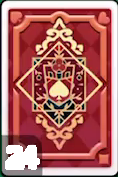
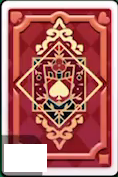
fix: clean card back previews

Changed region(s): [[0.0254, 0.791, 0.4068, 0.9887]]

diff --git a/src/app.js b/src/app.js
@@ -402,7 +402,12 @@ function showThemeGallery(tab = 'background') {
   const activeTab = ['background', 'back', 'face'].includes(tab) ? tab : 'background';
   const { theme, cardBack = 'ruby', cardFaceStyle = 'master' } = game.state;
   const backgroundTiles = TABLE_THEMES.map(([value, label, preview]) => `<button class="gallery-tile background-tile${theme === value ? ' chosen' : ''}" type="button" data-setting="theme" data-value="${value}" aria-label="${label} background" aria-pressed="${theme === value}"><span style="background:${preview}"></span>${theme === value ? '<i aria-hidden="true">✓</i>' : ''}</button>`).join('');
-  const backTiles = THEME_BACKS.map(([value, label]) => `<button class="gallery-tile back-tile${cardBack === value ? ' chosen' : ''}" type="button" data-setting="cardBack" data-value="${value}" aria-label="${label}" aria-pressed="${cardBack === value}"><img src="/assets/cards/${CARD_BACK_FILES[value]}" alt="">${cardBack === value ? '<i aria-hidden="true">✓</i>' : ''}</button>`).join('');
+  const backTiles = THEME_BACKS.map(([value, label]) => {
+    const artwork = value === 'ruby'
+      ? '<span class="back-preview-source" aria-hidden="true"><img src="/assets/cards/back-solitaire-master.svg" alt=""><img src="/assets/cards/back-solitaire-master-reference.png" alt=""></span>'
+      : `<img src="/assets/cards/${CARD_BACK_FILES[value]}" alt="">`;
+    return `<button class="gallery-tile back-tile${cardBack === value ? ' chosen' : ''}" type="button" data-setting="cardBack" data-value="${value}" aria-label="${label}" aria-pressed="${cardBack === value}">${artwork}${cardBack === value ? '<i aria-hidden="true">✓</i>' : ''}</button>`;
+  }).join('');
   const faceTiles = [['master', 'Solitaire Master', '5-of-hearts-reference.png'], ['classic', 'Classic', '5-of-hearts.svg']].map(([value, label, preview]) => `<button class="gallery-tile face-tile${cardFaceStyle === value ? ' chosen' : ''}" type="button" data-setting="cardFaceStyle" data-value="${value}" aria-label="${label} card faces" aria-pressed="${cardFaceStyle === value}"><img src="/assets/cards/${preview}" alt=""><span>${label}</span>${cardFaceStyle === value ? '<i aria-hidden="true">✓</i>' : ''}</button>`).join('');
   const tiles = activeTab === 'background' ? backgroundTiles : activeTab === 'back' ? backTiles : faceTiles;
   setModal('Themes', '', `<nav class="gallery-tabs" aria-label="Theme categories"><button type="button" data-theme-tab="background" aria-label="Backgrounds" class="${activeTab === 'background' ? 'active' : ''}"><span aria-hidden="true">▧</span></button><button type="button" data-theme-tab="back" aria-label="Card backs" class="${activeTab === 'back' ? 'active' : ''}"><span class="tab-card-back" aria-hidden="true">◆</span></button><button type="button" data-theme-tab="face" aria-label="Card faces" class="${activeTab === 'face' ? 'active' : ''}"><span aria-hidden="true">♥</span></button></nav><div class="gallery-grid ${activeTab === 'background' ? 'background-grid' : activeTab === 'face' ? 'face-grid' : 'back-grid'}">${tiles}</div>`);

diff --git a/tests/solitaire.spec.js b/tests/solitaire.spec.js
@@ -462,6 +462,7 @@ test('theme gallery switches backgrounds, card backs, and face styles on mobile'
   await page.getByRole('button', { name: 'Card backs' }).click();
   await expect(page.locator('.back-tile')).toHaveCount(8);
   await expect.poll(() => page.locator('.back-tile img').evaluateAll((images) => images.every((image) => image.complete && image.naturalWidth > 0))).toBe(true);
+  await expect(page.locator('.back-tile[data-value="ruby"] .back-preview-source img')).toHaveCount(2);
   await page.screenshot({ path: 'test-results/theme-gallery-mobile.png' });
   await page.getByRole('button', { name: 'Teal diamonds' }).click();
   await expect(page.locator('body')).toHaveAttribute('data-card-back', 'teal');
@@ -768,7 +769,7 @@ test('the board fits a 320px phone and the installed shell loads offline', async
   await page.goto('/');
   await page.evaluate(() => navigator.serviceWorker.ready);
   const cacheNames = await page.evaluate(() => caches.keys());
-  expect(cacheNames).toContain('solitaire-master-v31');
+  expect(cacheNames).toContain('solitaire-master-v32');
   expect(cacheNames).not.toContain('solitaire-master-v19');
   await page.evaluate(() => window.solitaireGame.setOption('theme', 'mountain'));
   await page.reload();

diff --git a/src/styles.css b/src/styles.css
@@ -410,7 +410,9 @@ body:not([data-theme='felt']) .foundation-theme-mark { position: absolute; inset
 .gallery-tile { position: relative; min-width: 0; padding: 0; overflow: hidden; border: 2px solid #c9c7cd; border-radius: 9px; background: #faf9fc; box-shadow: 0 2px 3px rgba(28,27,33,.2); cursor: pointer; }
 .gallery-tile.chosen { border: 4px solid #14d526; box-shadow: 0 0 0 1px rgba(20,213,38,.3), 0 2px 4px rgba(28,27,33,.25); }
 .back-tile { aspect-ratio: 2 / 3; }
-.back-tile img { display: block; width: 100%; height: 100%; object-fit: fill; }
+.back-tile > img, .back-preview-source img { display: block; width: 100%; height: 100%; object-fit: fill; }
+.back-preview-source { position: absolute; inset: 0; display: block; }
+.back-preview-source img { position: absolute; inset: 0; }
 .background-tile { aspect-ratio: 1; }
 .background-tile > span { display: block; width: 100%; height: 100%; }
 .gallery-tile > i { position: absolute; right: -1px; bottom: -1px; display: grid; width: 34px; height: 34px; place-items: center; border-radius: 50%; color: #fff; background: #10d323; font-size: 20px; font-style: normal; font-weight: 800; box-shadow: 0 1px 4px rgba(0,0,0,.22); }

diff --git a/sw.js b/sw.js
@@ -1,4 +1,4 @@
-const CACHE = 'solitaire-master-v31';
+const CACHE = 'solitaire-master-v32';
 const cardRanks = ['ace', '2', '3', '4', '5', '6', '7', '8', '9', '10', 'jack', 'queen', 'king'];
 const cardSuits = ['spades', 'hearts', 'diamonds', 'clubs'];
 const cardFaces = cardRanks.flatMap((rank) => cardSuits.map((suit) => `/assets/cards/${rank}-of-${suit}.svg`));

diff --git a/tools/extract_source_card_back.py b/tools/extract_source_card_back.py
@@ -3,7 +3,7 @@
 
 from pathlib import Path
 
-from PIL import Image, ImageChops, ImageFilter
+from PIL import Image, ImageChops, ImageDraw
 
 
 ROOT = Path(__file__).resolve().parents[1]
@@ -21,17 +21,11 @@ def main() -> None:
     source_crop.save(SOURCE_OUTPUT)
     crop = source_crop.convert("RGBA")
 
-    # The source stock counter is overlaid on the back at the lower-left. Clear
-    # just its bright glyphs so the live counter can be rendered above the crop.
+    # The source stock counter and its translucent badge are overlaid on the
+    # back at the lower-left. Clear that small area so the vector underlay can
+    # restore the pattern on tableau cards and in gallery previews.
     mask = Image.new("L", crop.size, 0)
-    source_pixels = crop.convert("RGB").load()
-    mask_pixels = mask.load()
-    for y in range(145, 171):
-        for x in range(4, 42):
-            red, green, blue = source_pixels[x, y]
-            if min(red, green, blue) > 180:
-                mask_pixels[x, y] = 255
-    mask = mask.filter(ImageFilter.MaxFilter(5))
+    ImageDraw.Draw(mask).rectangle((4, 144, 46, 171), fill=255)
     crop.putalpha(ImageChops.subtract(crop.getchannel("A"), mask))
     crop.save(OUTPUT)
 

diff --git a/docs/reference-study.md b/docs/reference-study.md
@@ -19,7 +19,7 @@ Keep an evidence ledger with the video URL, capture date, app version, duration,
 
 The official short now has a local source hash and a bit-verifiable frame ledger. The full-length portrait recording is also preserved locally but ignored by Git; only the selected 0–24 second opening window is under study at a time to avoid expanding the entire 17-minute source into hundreds of gigabytes of raw frames. The synchronized replica notes in the user's memory folder emphasize preserving exact source PTS, independent frame extraction, and a compact review of transition windows.
 
-The mobile visual pass compares the 10-second reference frame with a 442×960 CSS viewport rendered at 2× (both images are 884×1920). The foundation row now starts at about (x=4,y=430) px versus (x=4,y=429) in the reference; cards are about 118×177 px versus 118×176, and the tableau starts at y=646–648 px versus y=646. At source PTS 153600, a full-width felt shadow begins 28 source pixels above the foundation row and fades over 18 pixels; its center samples at y=402, 410, and 418 are RGB (1,74,34), (8,94,47), and (10,113,62). The default-felt board now matches those samples within one RGB level at the reference's 2× scale. The four default-felt foundation placeholders now use exact 118×177 source crops, including their gold double outline and serif Ace. The default felt sample at screen center matches the reference RGB value (11,115,63). The visible Play/Magic/Hint/Undo controls use source-frame glyphs positioned against the reference's bottom row. The default red-and-gold card back now uses 118×177 source crops for the stock and settled tableau backs: the stock uses the original baked-in `24` while unchanged, then swaps to the counter-keyed image and live count after a draw. The vector back remains during deal and flip transitions. The center timer frame is a 286×100 source crop from PTS 153600, and its dynamic `MM:SS` display now uses individually captured 21×31 px source glyphs for all digits and the colon, sampled from gameplay frames where the displayed value is visible. The digit assets are scaled with the frame, and E2E verifies the source `00:07` state and offline glyph loading. All twelve court cards and forty number-card faces in the default face style now use source-captured or source-composite PNG art. The 9♥ composite uses the 9♦ source frame/rank and matching heart pip shapes from the captured 5♥; it is not a direct 9♥ capture. Some icon line shapes, exact proprietary backgrounds, transition curves, and soundtrack still need clean original assets or source-quality references.
+The mobile visual pass compares the 10-second reference frame with a 442×960 CSS viewport rendered at 2× (both images are 884×1920). The foundation row now starts at about (x=4,y=430) px versus (x=4,y=429) in the reference; cards are about 118×177 px versus 118×176, and the tableau starts at y=646–648 px versus y=646. At source PTS 153600, a full-width felt shadow begins 28 source pixels above the foundation row and fades over 18 pixels; its center samples at y=402, 410, and 418 are RGB (1,74,34), (8,94,47), and (10,113,62). The default-felt board now matches those samples within one RGB level at the reference's 2× scale. The four default-felt foundation placeholders now use exact 118×177 source crops, including their gold double outline and serif Ace. The default felt sample at screen center matches the reference RGB value (11,115,63). The visible Play/Magic/Hint/Undo controls use source-frame glyphs positioned against the reference's bottom row. The default red-and-gold card back now uses 118×177 source crops for the stock and settled tableau backs: the stock uses the original baked-in `24` while unchanged, then swaps to a crop with the counter badge cleared and a live count after a draw. A vector underlay restores the card pattern beneath that badge area on tableau stacks and gallery previews. The vector back remains during deal and flip transitions. The center timer frame is a 286×100 source crop from PTS 153600, and its dynamic `MM:SS` display now uses individually captured 21×31 px source glyphs for all digits and the colon, sampled from gameplay frames where the displayed value is visible. The digit assets are scaled with the frame, and E2E verifies the source `00:07` state and offline glyph loading. All twelve court cards and forty number-card faces in the default face style now use source-captured or source-composite PNG art. The 9♥ composite uses the 9♦ source frame/rank and matching heart pip shapes from the captured 5♥; it is not a direct 9♥ capture. Some icon line shapes, exact proprietary backgrounds, transition curves, and soundtrack still need clean original assets or source-quality references.
 
 For audio, first obtain a clean gameplay recording with music and game effects audible, then keep a timestamped action log aligned to video. Extract audio without rebasing its source timeline, listen to short event windows, and compare duration, pitch contour, attack/decay, noise texture, stereo position, and music loop period. Keep one sample per event (tap, draw, flip, move, invalid drop, foundation, win) and compare browser PCM capture separately from the source. A successful `AudioContext.resume()`, cue scheduling, PCM output, and audible phone-speaker playback are separate checks; passing the first two alone does not prove the last two.
 

diff --git a/assets/cards/README.md b/assets/cards/README.md
@@ -4,7 +4,7 @@ The 52 base face-card SVGs and the alternate blue/red card-back SVGs in this dir
 
 The source deck credits public-domain court-card art from vector-playing-cards, CC0 suit pips and rank glyphs from Openclipart, and CC0 card-back artwork from OpenGameArt. The SVGs are served locally so the game can load and play offline.
 
-`back-solitaire-master-source.png` is the unmodified 118×177 crop at `(758,429)` from PTS 153600 (10s) in the 884×1920 gameplay frame; it preserves the source stock's baked-in `24` counter and is used while all 24 cards remain. `back-solitaire-master-reference.png` is the same crop with only the bright counter glyphs made transparent. The vector back fills those few pixels beneath the live count after a draw and beneath face-down tableau stacks. `back-solitaire-master.svg` remains the transition art during deal and flip animations. Both PNGs and the SVG are cached for offline play. Regenerate them with `python3 tools/extract_source_card_back.py` after creating the keyframe described in [`docs/video-frame-audit.md`](../../docs/video-frame-audit.md).
+`back-solitaire-master-source.png` is the unmodified 118×177 crop at `(758,429)` from PTS 153600 (10s) in the 884×1920 gameplay frame; it preserves the source stock's baked-in `24` counter and is used while all 24 cards remain. `back-solitaire-master-reference.png` is the same crop with the stock counter and its translucent badge cleared. A vector underlay restores the pattern in that small area on lower-count stock cards, tableau stacks, and gallery previews. `back-solitaire-master.svg` remains the transition art during deal and flip animations. Both PNGs and the SVG are cached for offline play. Regenerate them with `python3 tools/extract_source_card_back.py` after creating the keyframe described in [`docs/video-frame-audit.md`](../../docs/video-frame-audit.md).
 
 The following 118×177 PNGs are crops of matching cards from the gameplay video [`gLd0HXtDt5I`](https://www.youtube.com/watch?v=gLd0HXtDt5I). Coordinates are source pixels in its 884×1920 frames; PTS uses its 1/15360 time base.
 
